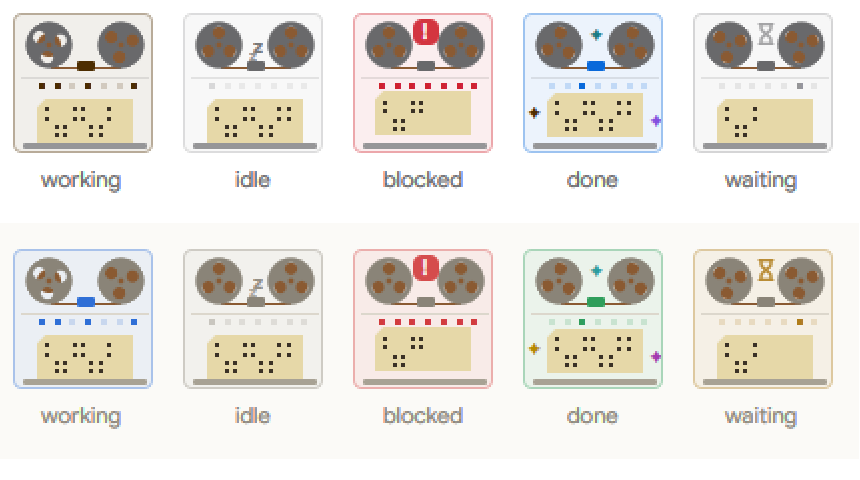
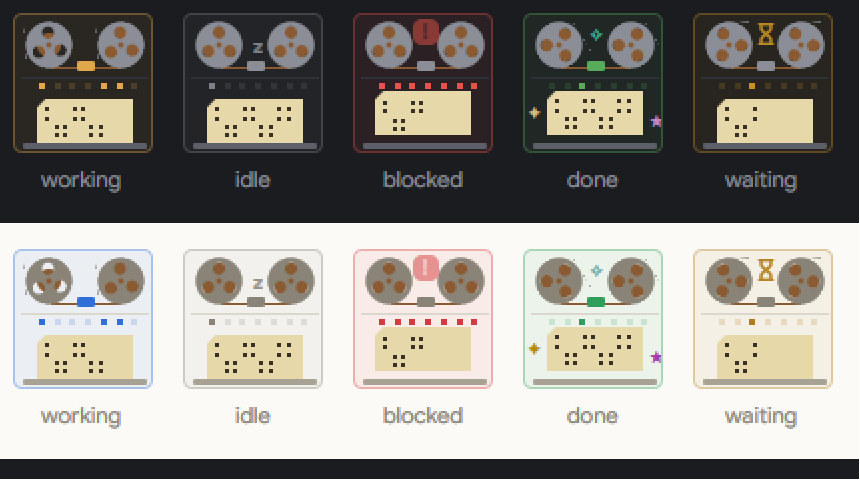
docs(agent-cards-app): show the Mainframe style in a dark and a light theme

diff --git a/whats-new/65.md b/whats-new/65.md
@@ -1,1 +1,1 @@
-- **agent-cards:** a new animation style, **Mainframe (cards & tape)**: the cards show the computer room of the first computers, with tape reels that turn, panel lamps that blink and a punched card in the reader. Pick it in Herdr Mods → **Settings** → **Animation**.
+- **agent-cards:** a new animation style, **Mainframe (cards & tape)**: the cards show the computer room of the first computers, with tape reels that turn, panel lamps that blink and a punched card in the reader. Pick it in PowerMods → **Settings** → **Animation**.
